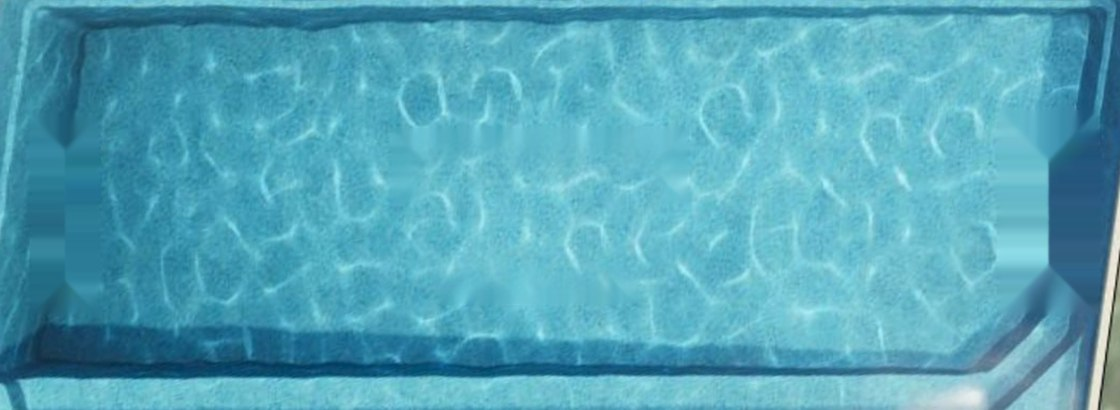
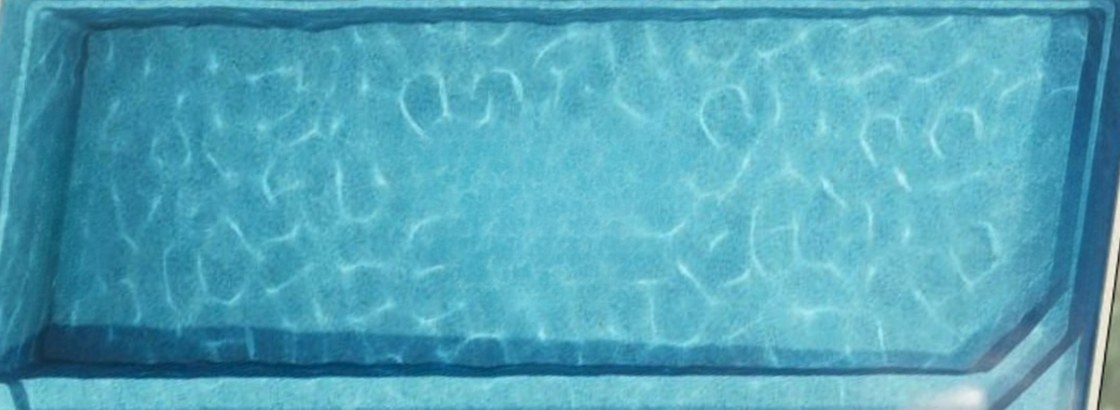
Diagram: LaMa AI inpainting — perfect text removal, walls + ripples reconstructed
Switched to LaMa (big-lama) via iopaint for text removal. Classical cv2.inpaint smeared
the black DE/SE depth markers on the pool walls; LaMa's FFT global receptive field
reconstructs the wall lines AND rippled water cleanly. Removed logo/tagline/BRAMPTON/DE/SE
with zero smear or ghosting. Perspective-corrected (straight walls), grass trimmed.
Runs locally & free via 'uv run --with iopaint' (big-lama.pt, CPU). sw cache v27.

diff --git a/sw.js b/sw.js
@@ -1,7 +1,7 @@
 // Paradise Pools Tile & Concrete Calculator — service worker
 // Caches the app on first visit so it works fully offline afterwards.
 
-const CACHE_NAME = "pp-tile-calc-v26";
+const CACHE_NAME = "pp-tile-calc-v27";
 const ASSETS = [
   "./",
   "./index.html",
